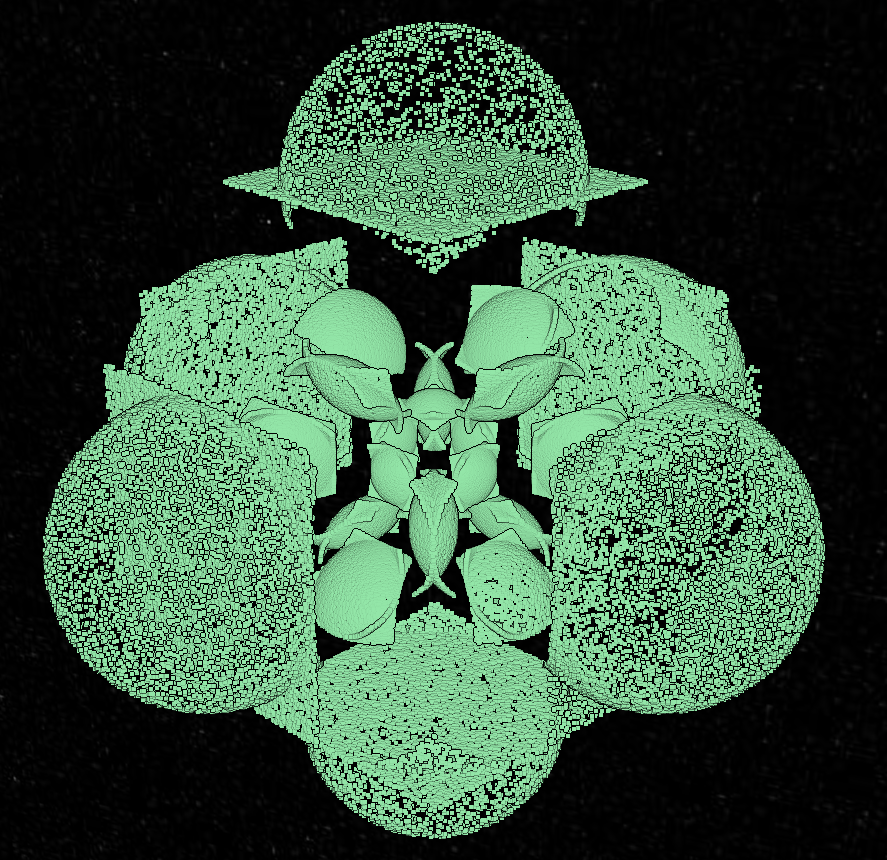
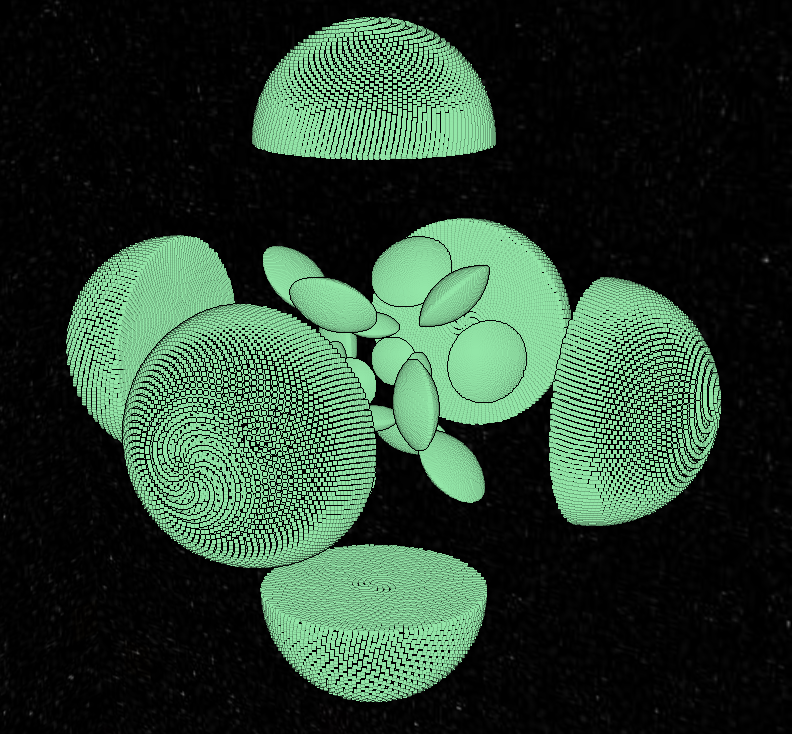
update logbook

diff --git a/logbook.md b/logbook.md
@@ -429,3 +429,18 @@ I'm not quite done with this project, there's a few more things I want to do:
     arrow keys or a gamepad?
 * Once CesiumJS's implementation of 3D Tiles Next is further along, there's
     plenty of cool styling opportunities
+
+## 2022-02-05 More Cluster Types
+
+The past couple of days I've been working on adding a few more cluster types:
+
+* evenly spaced lines, circles, quads, boxes
+* Fibonacci lattice disks and spheres. Formulas were found in [this article](http://extremelearning.com.au/how-to-evenly-distribute-points-on-a-sphere-more-effectively-than-the-canonical-fibonacci-lattice/)
+* A list of specific points.
+
+By being more precise in the initial clusters, the final results will look
+sharper.
+
+The next thing I want to do is add a cluster type of "many" that lets me
+list multiple starting shapes. Sometimes it helps to start with multiple
+shapes to get a better idea of the overall shape
